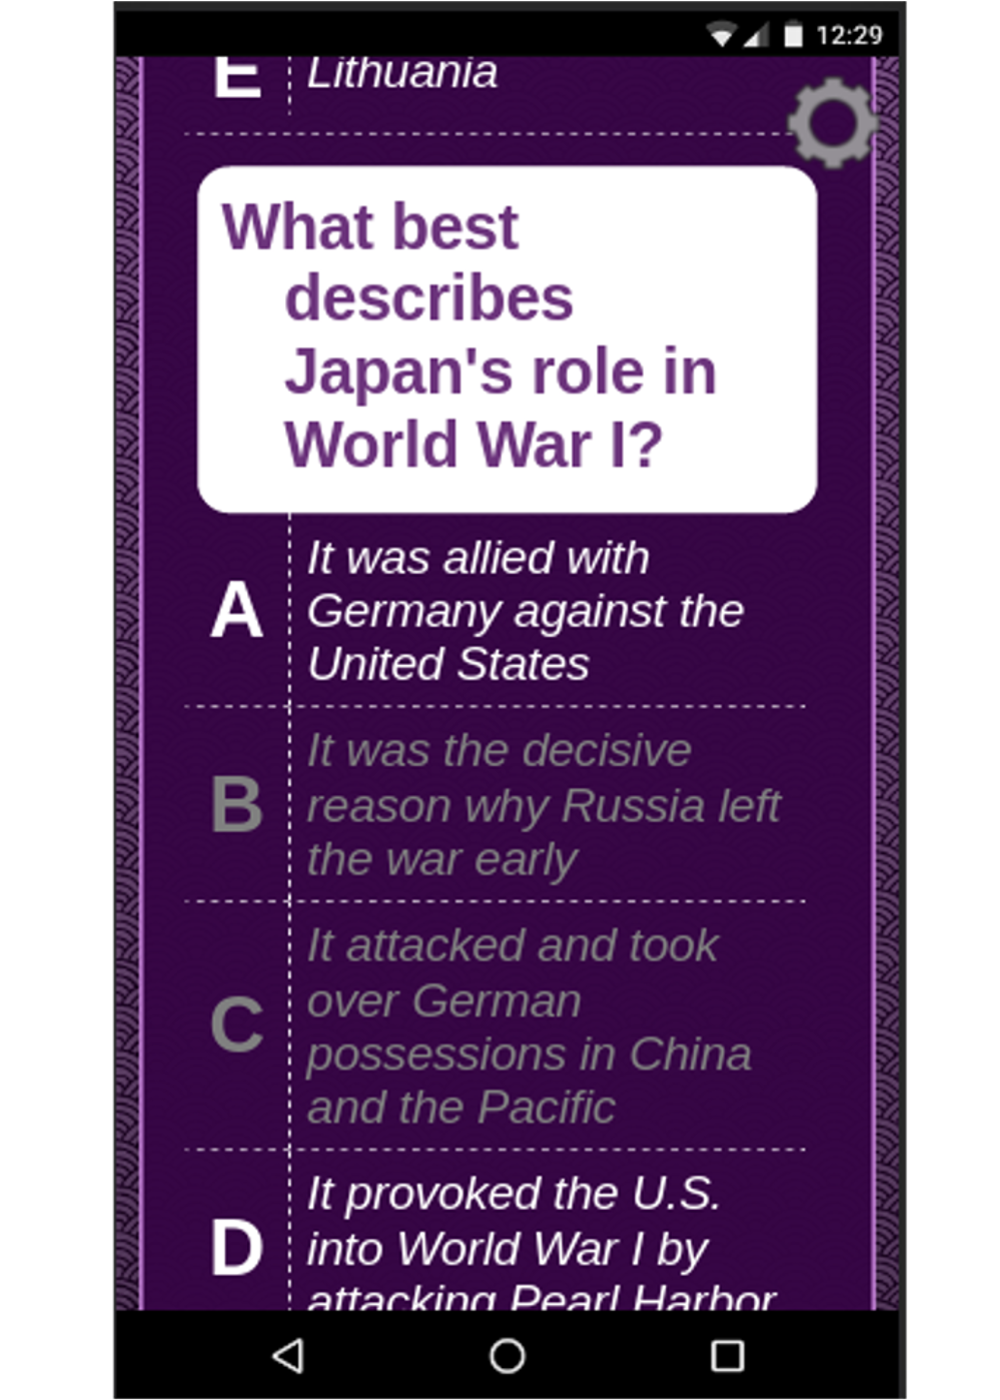
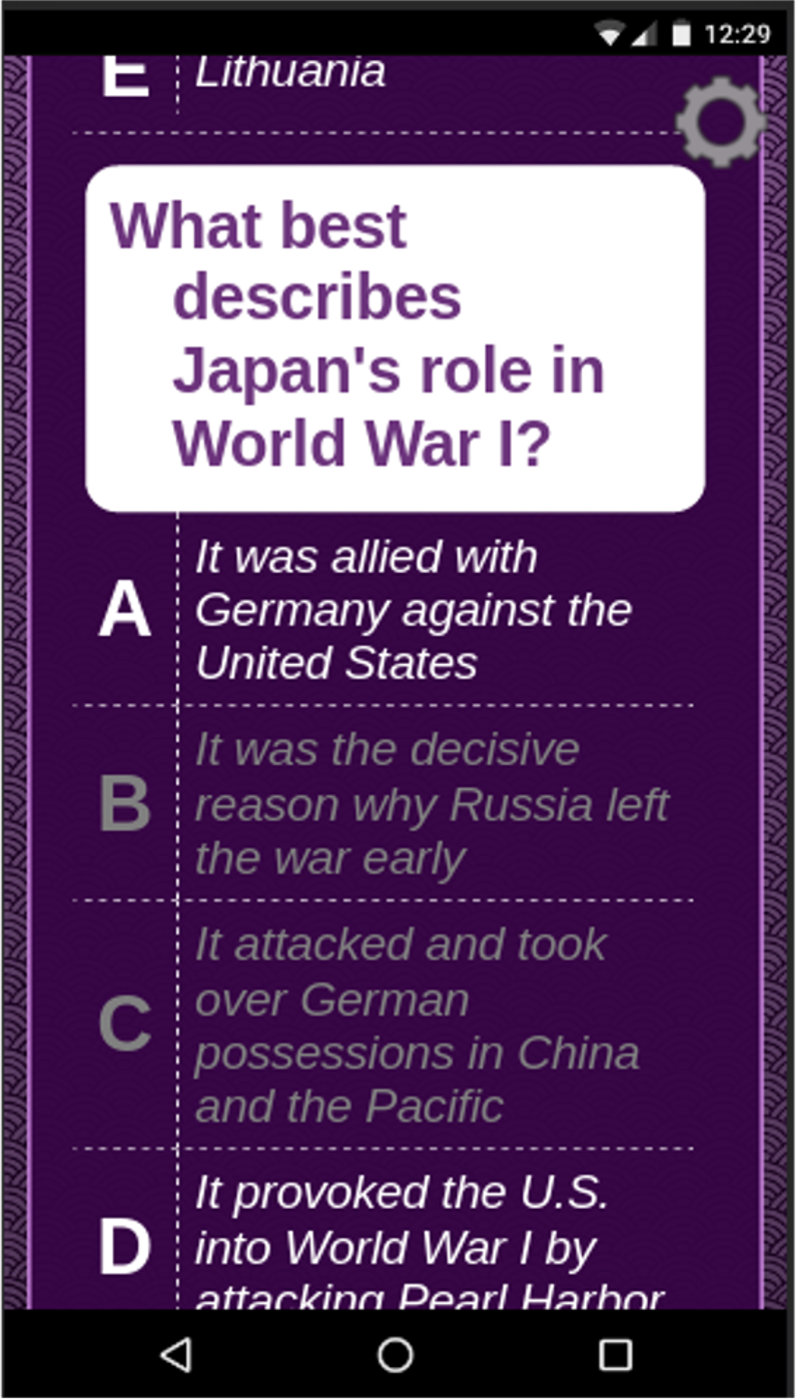
trying to make the images inside the carousel scale based on the longest side, similar to video players' theater backgrounds

diff --git a/public/stylesheets/grayscale.min.css b/public/stylesheets/grayscale.min.css
@@ -1,1 +1,1 @@
-body{width:100%;height:100%;font-family:"Lora","Helvetica Neue",Helvetica,Arial,sans-serif;color:white;background-color:black}html{width:100%;height:100%}h1,h2,h3,h4,h5,h6{margin:0 0 35px;text-transform:uppercase;font-family:"Montserrat","Helvetica Neue",Helvetica,Arial,sans-serif;font-weight:700;letter-spacing:1px}p{margin:0 0 25px;font-size:18px;line-height:1.5}@media (min-width: 768px){p{margin:0 0 35px;font-size:20px;line-height:1.6}}a{color:#8000ff;-webkit-transition:all .2s ease-in-out;-moz-transition:all .2s ease-in-out;transition:all .2s ease-in-out}a:hover,a:focus{text-decoration:none;color:#4d0099}.light{font-weight:400}.navbar-custom{margin-bottom:0;border-bottom:1px solid rgba(255,255,255,0.3);text-transform:uppercase;font-family:"Montserrat","Helvetica Neue",Helvetica,Arial,sans-serif;background-color:black}.navbar-custom .navbar-toggle{padding:4px 6px;font-size:16px;color:white}.navbar-custom .navbar-toggle:focus,.navbar-custom .navbar-toggle:active{outline:none}.navbar-custom .navbar-brand{font-weight:700}.navbar-custom .navbar-brand:focus{outline:none}.navbar-custom a{color:white}.navbar-custom .nav li a{-webkit-transition:background .3s ease-in-out;-moz-transition:background .3s ease-in-out;transition:background .3s ease-in-out}.navbar-custom .nav li a:hover{color:rgba(255,255,255,0.8);outline:none;background-color:transparent}.navbar-custom .nav li a:focus,.navbar-custom .nav li a:active{outline:none;background-color:transparent}.navbar-custom .nav li.active{outline:none}.navbar-custom .nav li.active a{background-color:rgba(255,255,255,0.3)}.navbar-custom .nav li.active a:hover{color:white}@media (min-width: 768px){.navbar-custom{padding:20px 0;border-bottom:none;letter-spacing:1px;background:transparent;-webkit-transition:background .5s ease-in-out,padding .5s ease-in-out;-moz-transition:background .5s ease-in-out,padding .5s ease-in-out;transition:background .5s ease-in-out,padding .5s ease-in-out}.navbar-custom.top-nav-collapse{padding:0;background:black;border-bottom:1px solid rgba(255,255,255,0.3)}}.intro{display:table;width:100%;height:auto;padding:100px 20px;text-align:center;color:white;background:url("../images/tracks-landscape.jpg") no-repeat bottom center scroll;background-color:black;-webkit-background-size:cover;-moz-background-size:cover;background-size:cover;-o-background-size:cover}.intro .intro-body{display:table-cell;vertical-align:middle}.intro .intro-body .brand-heading{font-size:40px;text-shadow:4px 4px black}.intro .intro-body .intro-text{font-size:18px}@media (min-width: 768px){.intro{height:100%;padding:0}.intro .intro-body .brand-heading{font-size:100px}.intro .intro-body .intro-text{font-size:26px}}.btn-circle{width:70px;height:70px;margin-top:15px;padding:7px 16px;border:2px solid white;border-radius:100% !important;font-size:40px;color:white;background:transparent;-webkit-transition:background .3s ease-in-out;-moz-transition:background .3s ease-in-out;transition:background .3s ease-in-out}.btn-circle:hover,.btn-circle:focus{outline:none;color:white;background:rgba(255,255,255,0.1)}.btn-circle i.animated{-webkit-transition-property:-webkit-transform;-webkit-transition-duration:1s;-moz-transition-property:-moz-transform;-moz-transition-duration:1s}.btn-circle:hover i.animated{-webkit-animation-name:pulse;-moz-animation-name:pulse;-webkit-animation-duration:1.5s;-moz-animation-duration:1.5s;-webkit-animation-iteration-count:infinite;-moz-animation-iteration-count:infinite;-webkit-animation-timing-function:linear;-moz-animation-timing-function:linear}@-webkit-keyframes pulse{from{-webkit-transform:scale(1);transform:scale(1)}50%{-webkit-transform:scale(1.2);transform:scale(1.2)}100%{-webkit-transform:scale(1);transform:scale(1)}}@-moz-keyframes pulse{from{-moz-transform:scale(1);transform:scale(1)}50%{-moz-transform:scale(1.2);transform:scale(1.2)}100%{-moz-transform:scale(1);transform:scale(1)}}.content-section{padding-top:100px;opacity:0}.grey-section{width:100%;padding:50px 0;color:white;background:url("/images/brickell-station-2015.jpg") no-repeat center center scroll;background-color:black;-webkit-background-size:cover;-moz-background-size:cover;background-size:cover;-o-background-size:cover;text-shadow:4px 4px black}#tools-img{width:100%;height:100%;background-color:rgba(0,0,0,0.5);border-radius:4px}@media (min-width: 767px){.content-section{padding-top:250px}.grey-section{padding:100px 0}}.btn{text-transform:uppercase;font-family:"Montserrat","Helvetica Neue",Helvetica,Arial,sans-serif;font-weight:400;-webkit-transition:all .3s ease-in-out;-moz-transition:all .3s ease-in-out;transition:all .3s ease-in-out;border-radius:0}.btn-default{border:1px solid #8000ff;color:#8000ff;background-color:transparent}.btn-default:hover,.btn-default:focus{border:1px solid #8000ff;outline:none;color:black;background-color:#8000ff}ul.banner-social-buttons{margin-top:0}@media (max-width: 1199px){ul.banner-social-buttons{margin-top:15px}}@media (max-width: 767px){ul.banner-social-buttons li{display:block;margin-bottom:20px;padding:0}ul.banner-social-buttons li:last-child{margin-bottom:0}}footer{padding:50px 0}footer p{margin:0}::-moz-selection{text-shadow:none;background:#fcfcfc;background:rgba(255,255,255,0.2)}::selection{text-shadow:none;background:#fcfcfc;background:rgba(255,255,255,0.2)}img::selection{background:transparent}img::-moz-selection{background:transparent}body{-webkit-tap-highlight-color:rgba(255,255,255,0.2)}#projects #myCarousel .item .project-img{width:100%;height:auto;background-color:rgba(0,0,0,0.5);border-radius:4px}#projects #myCarousel .item .carousel-caption p{padding:10px;color:#8000ff;border-radius:4px;background-color:black}
+body{width:100%;height:100%;font-family:"Lora","Helvetica Neue",Helvetica,Arial,sans-serif;color:white;background-color:black}html{width:100%;height:100%}h1,h2,h3,h4,h5,h6{margin:0 0 35px;text-transform:uppercase;font-family:"Montserrat","Helvetica Neue",Helvetica,Arial,sans-serif;font-weight:700;letter-spacing:1px}p{margin:0 0 25px;font-size:18px;line-height:1.5}@media (min-width: 768px){p{margin:0 0 35px;font-size:20px;line-height:1.6}}a{color:#8000ff;-webkit-transition:all .2s ease-in-out;-moz-transition:all .2s ease-in-out;transition:all .2s ease-in-out}a:hover,a:focus{text-decoration:none;color:#4d0099}.light{font-weight:400}.navbar-custom{margin-bottom:0;border-bottom:1px solid rgba(255,255,255,0.3);text-transform:uppercase;font-family:"Montserrat","Helvetica Neue",Helvetica,Arial,sans-serif;background-color:black}.navbar-custom .navbar-toggle{padding:4px 6px;font-size:16px;color:white}.navbar-custom .navbar-toggle:focus,.navbar-custom .navbar-toggle:active{outline:none}.navbar-custom .navbar-brand{font-weight:700}.navbar-custom .navbar-brand:focus{outline:none}.navbar-custom a{color:white}.navbar-custom .nav li a{-webkit-transition:background .3s ease-in-out;-moz-transition:background .3s ease-in-out;transition:background .3s ease-in-out}.navbar-custom .nav li a:hover{color:rgba(255,255,255,0.8);outline:none;background-color:transparent}.navbar-custom .nav li a:focus,.navbar-custom .nav li a:active{outline:none;background-color:transparent}.navbar-custom .nav li.active{outline:none}.navbar-custom .nav li.active a{background-color:rgba(255,255,255,0.3)}.navbar-custom .nav li.active a:hover{color:white}@media (min-width: 768px){.navbar-custom{padding:20px 0;border-bottom:none;letter-spacing:1px;background:transparent;-webkit-transition:background .5s ease-in-out,padding .5s ease-in-out;-moz-transition:background .5s ease-in-out,padding .5s ease-in-out;transition:background .5s ease-in-out,padding .5s ease-in-out}.navbar-custom.top-nav-collapse{padding:0;background:black;border-bottom:1px solid rgba(255,255,255,0.3)}}.intro{display:table;width:100%;height:auto;padding:100px 20px;text-align:center;color:white;background:url("../images/tracks-landscape.jpg") no-repeat bottom center scroll;background-color:black;-webkit-background-size:cover;-moz-background-size:cover;background-size:cover;-o-background-size:cover}.intro .intro-body{display:table-cell;vertical-align:middle}.intro .intro-body .brand-heading{font-size:40px;text-shadow:4px 4px black}.intro .intro-body .intro-text{font-size:18px}@media (min-width: 768px){.intro{height:100%;padding:0}.intro .intro-body .brand-heading{font-size:100px}.intro .intro-body .intro-text{font-size:26px}}.btn-circle{width:70px;height:70px;margin-top:15px;padding:7px 16px;border:2px solid white;border-radius:100% !important;font-size:40px;color:white;background:transparent;-webkit-transition:background .3s ease-in-out;-moz-transition:background .3s ease-in-out;transition:background .3s ease-in-out}.btn-circle:hover,.btn-circle:focus{outline:none;color:white;background:rgba(255,255,255,0.1)}.btn-circle i.animated{-webkit-transition-property:-webkit-transform;-webkit-transition-duration:1s;-moz-transition-property:-moz-transform;-moz-transition-duration:1s}.btn-circle:hover i.animated{-webkit-animation-name:pulse;-moz-animation-name:pulse;-webkit-animation-duration:1.5s;-moz-animation-duration:1.5s;-webkit-animation-iteration-count:infinite;-moz-animation-iteration-count:infinite;-webkit-animation-timing-function:linear;-moz-animation-timing-function:linear}@-webkit-keyframes pulse{from{-webkit-transform:scale(1);transform:scale(1)}50%{-webkit-transform:scale(1.2);transform:scale(1.2)}100%{-webkit-transform:scale(1);transform:scale(1)}}@-moz-keyframes pulse{from{-moz-transform:scale(1);transform:scale(1)}50%{-moz-transform:scale(1.2);transform:scale(1.2)}100%{-moz-transform:scale(1);transform:scale(1)}}.content-section{padding-top:100px;opacity:0}.grey-section{width:100%;padding:50px 0;color:white;background:url("/images/brickell-station-2015.jpg") no-repeat center center scroll;background-color:black;-webkit-background-size:cover;-moz-background-size:cover;background-size:cover;-o-background-size:cover;text-shadow:4px 4px black}#tools-img{width:100%;height:100%;background-color:rgba(0,0,0,0.5);border-radius:4px}@media (min-width: 767px){.content-section{padding-top:250px}.grey-section{padding:100px 0}}.btn{text-transform:uppercase;font-family:"Montserrat","Helvetica Neue",Helvetica,Arial,sans-serif;font-weight:400;-webkit-transition:all .3s ease-in-out;-moz-transition:all .3s ease-in-out;transition:all .3s ease-in-out;border-radius:0}.btn-default{border:1px solid #8000ff;color:#8000ff;background-color:transparent}.btn-default:hover,.btn-default:focus{border:1px solid #8000ff;outline:none;color:black;background-color:#8000ff}ul.banner-social-buttons{margin-top:0}@media (max-width: 1199px){ul.banner-social-buttons{margin-top:15px}}@media (max-width: 767px){ul.banner-social-buttons li{display:block;margin-bottom:20px;padding:0}ul.banner-social-buttons li:last-child{margin-bottom:0}}footer{padding:50px 0}footer p{margin:0}::-moz-selection{text-shadow:none;background:#fcfcfc;background:rgba(255,255,255,0.2)}::selection{text-shadow:none;background:#fcfcfc;background:rgba(255,255,255,0.2)}img::selection{background:transparent}img::-moz-selection{background:transparent}body{-webkit-tap-highlight-color:rgba(255,255,255,0.2)}#projects #myCarousel{box-sizing:border-box;border:1px solid pink}#projects #myCarousel .item .project-img{width:100%;height:auto;background-color:rgba(0,0,0,0.5);border-radius:4px}#projects #myCarousel .item .carousel-caption p{padding:10px;color:#8000ff;border-radius:4px;background-color:black}

diff --git a/public/javascripts/grayscale.js b/public/javascripts/grayscale.js
@@ -62,3 +62,32 @@ $(function() {
 $('.navbar-collapse ul li a').click(function() {
   $(".navbar-collapse").collapse('hide');
 });
+
+//Resize project images
+const jCarousel = $('#myCarousel')
+const jTango = $('#tango-img');
+
+const scaleWithVWidth  = (jel) => jel.width ('100vw').height('auto');
+const scaleWithVHeight = (jel) => jel.width('auto').height('100vh');
+const imgAspectRatio = () => jTango.width() / jTango.height();
+
+//Strategy (keeping the aspect ratio the same)
+//window is wide and image would fit entirely:    scaleWithVHeight
+//window is wide but image would be clipped:      scaleWithVWidth
+//window is tall and image would fit entirely:    scaleWithVWidth
+//window is tall but image would be clipped:      scaleWithVHeight
+//Note: this code /probably/ does not work with vertical videos yet
+const resizeImgToFitWindow = (jImg) => {
+  const winWidth = jWin.width();
+  const winHeight = jWin.height();
+  if (winWidth >  winHeight && imgAspectRatio() * winHeight < winWidth) {
+      scaleWithVHeight(jImg);
+    }
+  else {
+    scaleWithVWidth(jImg);
+  }
+
+  shrinkBar();
+};
+
+jWin.resize(resizeImgToFitWindow(jTango));

diff --git a/public/stylesheets/grayscale.scss b/public/stylesheets/grayscale.scss
@@ -343,6 +343,9 @@ body {
 
   #myCarousel {
 
+    box-sizing: border-box;
+    border: 1px solid pink;
+
     .item {
 
       .project-img {
